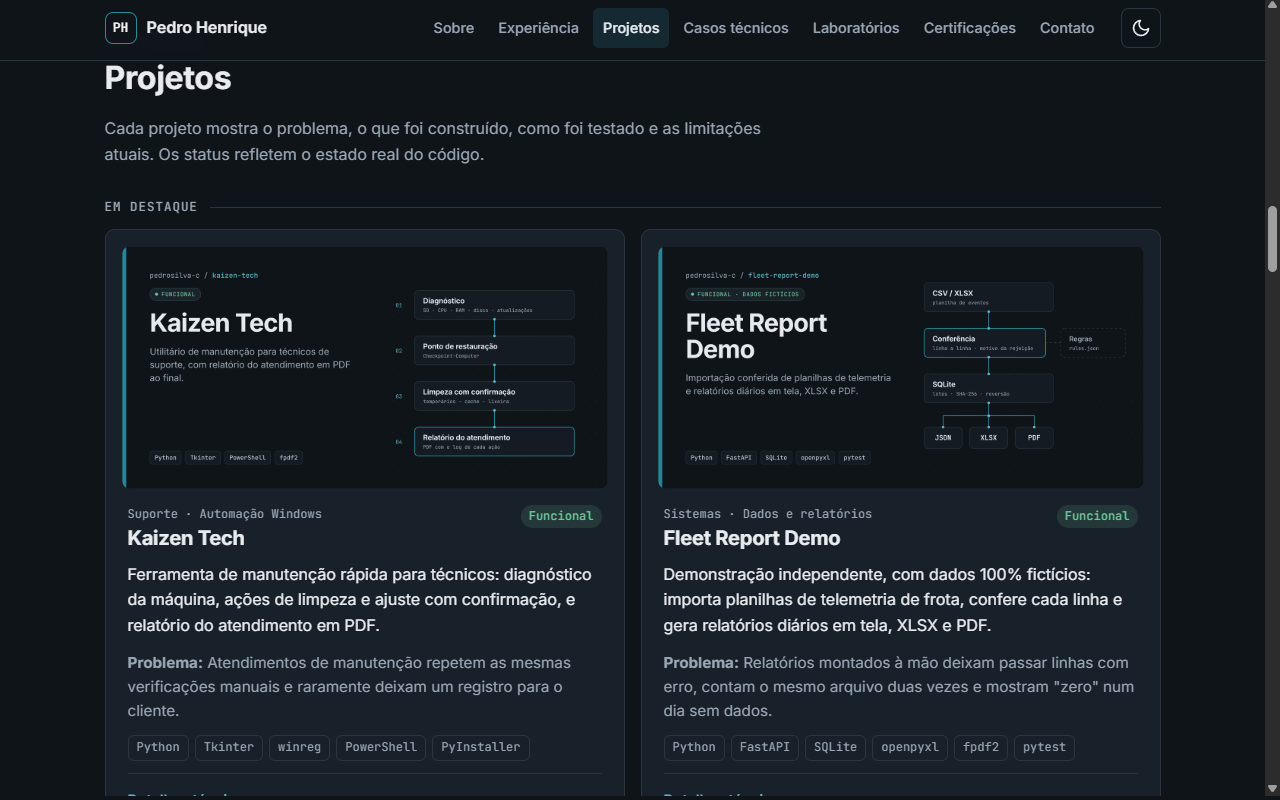
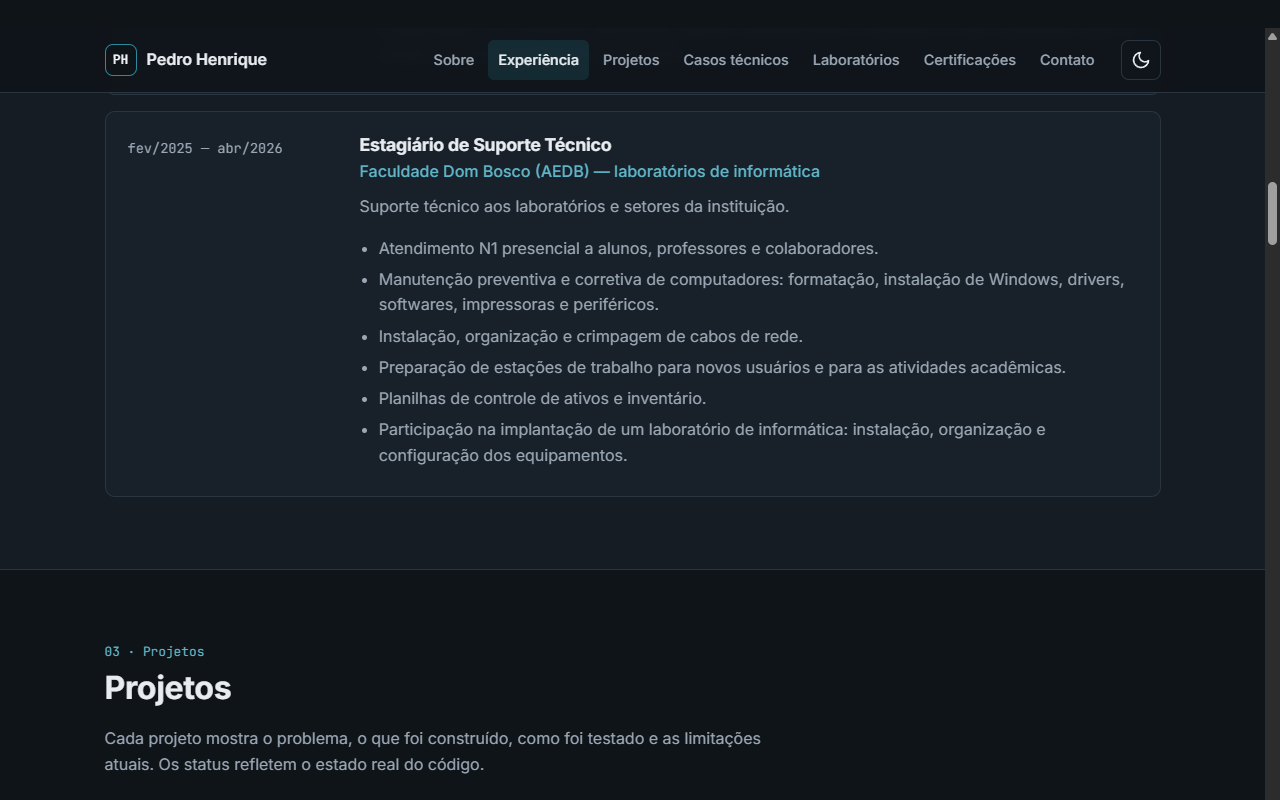
Destaca o Laboratório Active Directory entre os projetos
Card com status "Em documentação" e texto extraído do README do laboratório: nenhuma etapa do checklist é apresentada como comprovada. Com cinco destaques, o último ocupa a linha inteira, com a capa à esquerda. Capturas do README atualizadas com as capas novas.

diff --git a/js/data.js b/js/data.js
@@ -131,6 +131,27 @@ const PROJECTS_DATA = [
     repo: "https://github.com/Pedro-Osaka/kaizen-tech"
   },
   {
+    id: "lab-active-directory",
+    featured: true,
+    cover: "assets/images/covers/lab-active-directory.png",
+    title: "Laboratório Active Directory",
+    kind: "Infraestrutura · Windows Server",
+    status: "Em documentação",
+    summary: "Domínio Active Directory em VirtualBox: controlador Windows Server 2019 e estação Windows 10 em rede interna isolada, com scripts PowerShell somente leitura para coletar evidências.",
+    problem: "Praticar, num ambiente isolado, as tarefas de infraestrutura Microsoft do suporte e registrar cada etapa com evidência verificável, em vez de só descrevê-la.",
+    built: [
+      "SERVER-DC (Windows Server 2019) e CLIENTE02 (Windows 10 22H2) na rede interna \"labrede\"; CLIENTE01 criado, ainda sem sistema instalado.",
+      "Topologia e especificações extraídas da configuração real das VMs (VBoxManage).",
+      "Scripts PowerShell somente leitura para coletar evidências no controlador e no cliente.",
+      "Checklist de 10 etapas: AD DS, DNS, DHCP, OUs, grupos, ingresso no domínio, GPO, File Server e dcdiag."
+    ],
+    tests: "Scripts sem erros no parser do Windows PowerShell 5.1; o de cliente foi executado fora de domínio e registrou as falhas esperadas. O script do controlador ainda não rodou num DC.",
+    limits: "Nenhuma etapa do checklist está comprovada ainda: as evidências e as capturas de tela serão coletadas nas VMs.",
+    tech: ["Windows Server 2019", "Active Directory", "DNS", "PowerShell", "VirtualBox"],
+    repo: "https://github.com/Pedro-Osaka/lab-active-directory",
+    note: "Roteiro completo em LAB-001, na seção Laboratórios."
+  },
+  {
     id: "fleet-report-demo",
     featured: true,
     cover: "assets/images/covers/fleet-report-demo.png",

diff --git a/css/style.css b/css/style.css
@@ -255,6 +255,15 @@ ul { margin: 0; padding-left: 1.2em; }
 .project-cover img { display: block; width: 100%; height: auto; aspect-ratio: 2 / 1; transition: transform .25s ease; }
 .project--featured:hover .project-cover img { transform: scale(1.015); }
 @media (prefers-reduced-motion: reduce) { .project-cover img { transition: none; } }
+/* Destaque ímpar no fim da grade: ocupa a linha inteira, com a capa à esquerda */
+@media (min-width: 860px) {
+  #projects-container > .project--featured:last-child:nth-child(odd) {
+    grid-column: 1 / -1; display: grid; grid-template-columns: minmax(0, 1fr) minmax(0, 1fr);
+    column-gap: 28px; row-gap: 12px; align-content: start;
+  }
+  #projects-container > .project--featured:last-child:nth-child(odd) > * { grid-column: 2; }
+  #projects-container > .project--featured:last-child:nth-child(odd) > .project-cover { grid-column: 1; grid-row: 1 / span 8; align-self: start; margin: 0; }
+}
 .project-grid--compact { align-items: start; }
 .project-grid--compact .project { gap: 10px; }
 .group-title { font-family: var(--font-mono); font-size: .78rem; font-weight: 500; text-transform: uppercase; letter-spacing: .08em; color: var(--text-muted); margin: 32px 0 14px; display: flex; align-items: center; gap: 12px; }

diff --git a/README.md b/README.md
@@ -47,7 +47,7 @@ _source/              fontes do currículo e da imagem Open Graph (ignorado pelo
 docs/assets/          imagens deste README
 ```
 
-Para atualizar o conteúdo, edite apenas `js/data.js`. Um projeto com `featured: true` e `cover` aparece no grupo "Em destaque".
+Para atualizar o conteúdo, edite apenas `js/data.js`. Um projeto com `featured: true` e `cover` aparece no grupo "Em destaque"; se o número de destaques for ímpar, o último ocupa a linha inteira.
 
 ## Como executar
 
